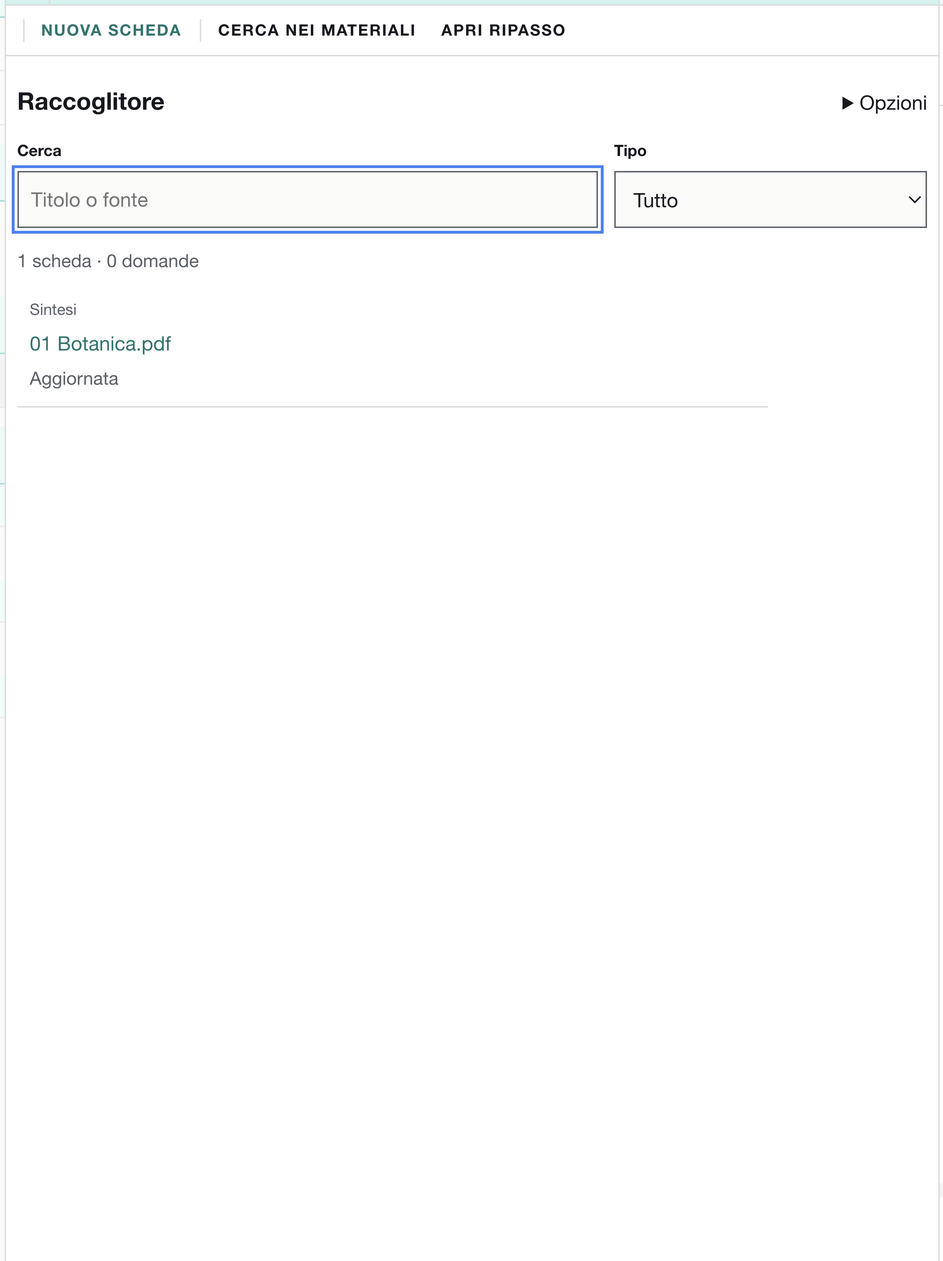
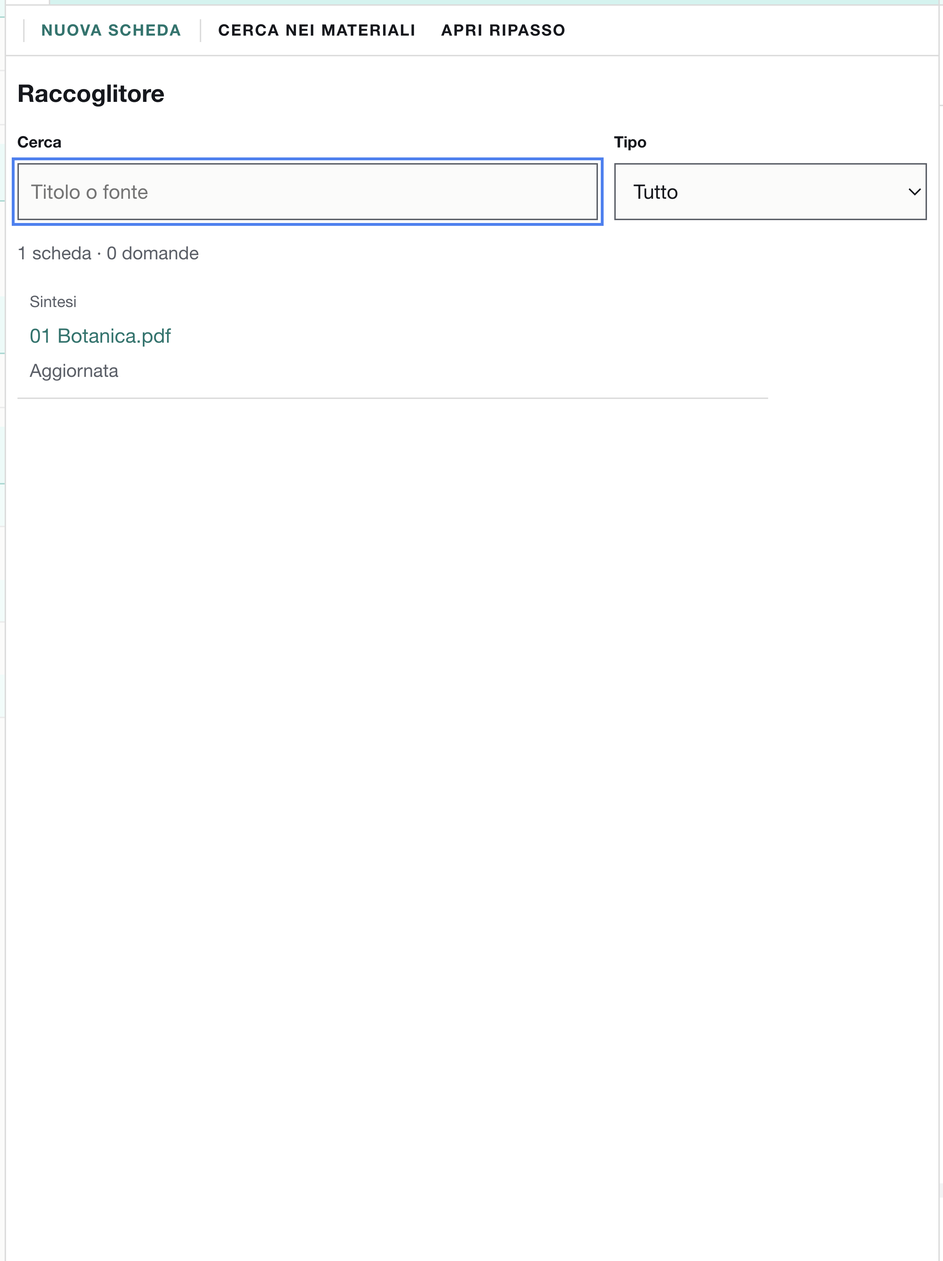
Semplifica la scelta delle domande e aggiorna il raccoglitore al ritorno

Changed region(s): [[0.0, 0.0621, 0.7432, 0.3107], [0.898, 0.0621, 0.96, 0.0932]]

diff --git a/App/assets/chat/schede-ripasso.js b/App/assets/chat/schede-ripasso.js
@@ -9,7 +9,7 @@
   const extra=el('div');extra.innerHTML=`
    <section id="zschede" aria-label="Schede dello zaino">
     <section id="zschedeLibrary" aria-labelledby="zschedeTitle">
-     <div class="zstudio-heading"><h2 id="zschedeTitle">Raccoglitore</h2><details class="zstudio-options"><summary>Opzioni</summary><p class="zchat-hint">Tutte le schede e le domande salvate nello zaino. Aprirle non usa l’AI. L’elenco si aggiorna automaticamente.</p><button id="zschedeRefresh" class="tbtn" type="button">Aggiorna elenco</button></details></div>
+     <div class="zstudio-heading"><h2 id="zschedeTitle">Raccoglitore</h2></div>
      <div class="zstudio-filters"><label for="zschedeFilter">Cerca<input id="zschedeFilter" class="ctl-input" placeholder="Titolo o fonte"></label><label for="zschedeKind">Tipo<select id="zschedeKind"><option value="all">Tutto</option><option value="scheda">Schede</option><option value="domanda">Domande</option></select></label></div>
      <p id="zschedeCollectionStatus" class="zchat-hint" role="status"></p><div id="zschedeCollection" class="zstudio-collection"></div>
     </section>
@@ -27,7 +27,7 @@
      <section id="zstudyHome"><h2 id="zstudyHomeTitle" tabindex="-1">Pronto per ripassare?</h2><p id="zstudyCount" class="zchat-hint" role="status"></p><button id="zstudyBegin" class="tbtn acc" type="button">Inizia ripasso</button><p id="zstudyHomeEmpty" class="zchat-hint">Crea una domanda con AI oppure aprine una dal raccoglitore.</p></section>
      <section id="zstudyChoose" hidden><div class="zstudio-heading"><h2 tabindex="-1">Scegli una domanda</h2><button class="tbtn" id="zstudyRefresh" type="button">Aggiorna</button></div>
       <label for="zstudyQueueFilter">Mostra<select id="zstudyQueueFilter"><option value="due">Da ripassare</option><option value="new">Nuove</option><option value="later">Più avanti</option><option value="all">Tutte le domande</option></select></label>
-      <div id="zstudyQueue" class="zstudio-actions"><label for="zstudySaved">Domanda</label><select id="zstudySaved" class="ctl-select"></select><button class="tbtn acc" id="zstudyResume" type="button">Apri domanda</button></div><p id="zstudyQueueEmpty" class="zchat-hint"></p>
+      <div id="zstudyQueue" class="zstudio-actions"><label for="zstudySaved">Domanda</label><select id="zstudySaved" class="ctl-select"></select><button class="tbtn acc" id="zstudyResume" type="button">Apri</button></div><p id="zstudyQueueEmpty" class="zchat-hint"></p>
      </section>
      <details id="zstudyNew" class="zstudio-section zstudio-view" hidden><summary>Nuova domanda con AI</summary>
       <label class="zstudio-field" for="zstudyTopic">Argomento (facoltativo)<input class="ctl-input" id="zstudyTopic" maxlength="3000" placeholder="I concetti principali delle fonti scelte"></label>
@@ -90,7 +90,7 @@
    cards=r.status==='fulfilled'?r.value.cards:[];savedQuestions=q.status==='fulfilled'?q.value.questions:[];collectionWarnings=[...(r.status==='fulfilled'?r.value.warnings:['Schede non leggibili: '+r.reason.message]),...(q.status==='fulfilled'?[]:['Domande non leggibili: '+q.reason.message])];drawCollection();}
   window.vault.rag.onAuto(s=>{if(s.zaino!==state.zaino||!['queued','waiting-model','ready','warning','error'].includes(s.phase))return;clearTimeout(collectionTimer);collectionTimer=setTimeout(()=>collection().catch(e=>studio.status(e.message,true,'zschedeCollectionStatus')),250);});
   $('zschedeFilter').oninput=drawCollection;$('zschedeKind').onchange=drawCollection;
-  $('zschedeRefresh').onclick=()=>studio.action(collection);
+  function mostraRaccolta(){vistaSchede('library','zschedeFilter');collection().catch(e=>studio.status(e.message,true,'zschedeCollectionStatus'));}
   async function sources(prefer=false){const z=state.zaino,scope=JSON.stringify(state.scope),result=await window.vault.chat.sources(z);if(z!==state.zaino||scope!==JSON.stringify(state.scope))return;if(!result?.ok)throw Error(result?.error);const old=$('zschedeSource').value;$('zschedeSource').replaceChildren();for(const s of result.sources.filter(s=>state.scope.mode==='all'||state.scope.sourceIds.includes(s.id)))$('zschedeSource').append(new Option(s.file,s.id));const available=result.sources.filter(s=>state.scope.mode==='all'||state.scope.sourceIds.includes(s.id)),choice=P.fontePreferita(available,prefer?[studio.documento()]:[],old);if(choice)$('zschedeSource').value=choice;if(old!==$('zschedeSource').value)invalidateEstimate();$('zschedeEstimate').disabled=!$('zschedeSource').options.length;$('zschedeSourceStatus').textContent=$('zschedeSource').options.length?'':'Nessuna fonte disponibile nella selezione. Cambia il filtro «Fonti».';}
   function drawCard(c,st){
    vistaSchede('card');const target=$('zschedeResult');target.replaceChildren();if(!c){target.append(el('p','Nessuna scheda disponibile.'));return;}
@@ -105,7 +105,7 @@
    if(st!=='removed'){const regenerate=button('Rigenera…',()=>studio.action(current=>prepare(current,c.sourceId,c.preset)),true);regenerate.classList.add('zstudio-card-regenerate');regenerate.title='Mostra la stima prima di confermare l’uso dell’AI.';target.append(regenerate);}
   }
   const nuova=button('Nuova scheda',async()=>{nuova.disabled=true;try{await sources(true);vistaSchede('new','zschedeSource');}catch(e){vistaSchede('new');studio.status(e.message,true,'zschedeStatus');$('zschedeStatus').scrollIntoView({block:'nearest'});}finally{nuova.disabled=false;}});nuova.id='zschedeNewButton';nuova.classList.add('acc');$('zragToolbar').insertBefore(nuova,$('zragToolbar').firstChild);
-  const back=button('Raccoglitore',()=>vistaSchede('library','zschedeFilter'));back.id='zschedeBack';const search=button('Cerca nei materiali',()=>vistaSchede('search','zragQuery'));search.id='zragSearchButton';$('zragToolbar').insertBefore(back,nuova);nuova.after(search);
+  const back=button('Raccoglitore',mostraRaccolta);back.id='zschedeBack';const search=button('Cerca nei materiali',()=>vistaSchede('search','zragQuery'));search.id='zragSearchButton';$('zragToolbar').insertBefore(back,nuova);nuova.after(search);
   function invalidateEstimate(){estimate=null;$('zschedeGenerate').hidden=true;$('zschedeEstimateText').textContent='';$('zschedeTokens').textContent='';$('zschedeCost').open=false;$('zschedeCost').hidden=true;$('zschedeEstimate').textContent='Prepara analisi';$('zschedeEstimate').classList.add('acc');}
   for(const id of ['zschedeSource','zschedePreset'])$(id).onchange=invalidateEstimate;
   async function prepare(current,sourceId,preset){
@@ -161,7 +161,7 @@
   $('zstudyQueueFilter').onchange=()=>{visitati.clear();drawQueue();};
   function pause(){pausedId=question?.id||pausedId;paused=true;visitati.clear();drawQuestion(null);drawQueue();pulisciAvvisoRipasso();vistaRipasso('home','zstudyBegin');}
   $('zstudyPause').onclick=()=>{if(question&&!question.saved)return action(async current=>{await call('keep',state.zaino,question.id);if(current()){pause();await refresh();await collection();}});pause();};
-  $('zstudyCollection').onclick=()=>{window.bancoMostra('studio');vistaSchede('library');collection().catch(e=>studio.status(e.message,true,'zschedeCollectionStatus'));$('zschedeFilter').focus();};
+  $('zstudyCollection').onclick=()=>{window.bancoMostra('studio');mostraRaccolta();};
   $('zstudyUseSources').onclick=()=>{picker.set(state.scope);status('Fonti trasferite da Cerca e studia.');};
   function openReview(){picker.set(state.scope);window.bancoMostra('flashcard');refresh().catch(e=>status(e.message,true));tornaRipasso();}
   function start(scope){paused=false;vistaRipasso('new');action(async current=>{if(!await studio.ensureAI('zstudyStatus')||!current())return;if(!window.noteFlush())throw Error('Salva prima gli appunti aperti.');const r=await call('start',state.zaino,{scope:scope?.mode?scope:reviewState.scope,topic:$('zstudyTopic').value});if(current()){review=false;drawQuestion(r.question);await refresh();$('zstudyNew').open=false;$('zstudyQuestion h3')?.focus();status('');}});}

diff --git a/test/cdp/prova-studio-zaino.js b/test/cdp/prova-studio-zaino.js
@@ -17,20 +17,20 @@ const set=(id,value)=>c.val(`(()=>{const e=document.getElementById(${JSON.string
  await click('#zschedeEstimate');await wait(`!document.getElementById('zschedeGenerate').hidden`);assert((await c.val(`document.getElementById('zschedeTokens').textContent`)).includes('token'));
  await click('#zschedeGenerate');await wait(`document.querySelectorAll('#zschedeResult article').length===1`);
  assert.equal(await c.val(`document.querySelector('#zschedeResult strong').textContent`),'Energia cellulare');
- await wait(`document.querySelectorAll('#zschedeCollection article').length===1 && !document.getElementById('zschedeRefresh').disabled`);
+ await wait(`document.querySelectorAll('#zschedeCollection article').length===1 && !document.getElementById('zschedeNewButton').disabled`);
  await click('#zschedeBack');await set('zschedeFilter','inesistente');assert.equal(await c.val(`document.querySelectorAll('#zschedeCollection article').length`),0);await set('zschedeFilter','Sintesi');
  await c.val(`document.getElementById('zschedeResult').replaceChildren()`);await click('#zschedeCollection button');await wait(`!!document.querySelector('#zschedeResult article')`);
  assert.deepEqual(await c.val(`[...document.querySelectorAll('#zschedeResult .zstudio-card-text strong')].map(e=>e.textContent)`),['Concetti:','Prerequisiti:','Esempi:']);
  // Il raccoglitore resta generale anche quando la ricerca ammette una sola fonte.
  const firstCard=(await c.val(`window.vault.studio.cards('biologia')`)).cards[0],other=(await c.val(`window.vault.chat.sources('biologia')`)).sources.find(s=>s.kind==='appunto'&&s.id!==firstCard.sourceId);assert(other);
  await click('#zschedeBack');await click('#zschedeNewButton');await wait(`document.getElementById('zschedeNew').open`);await set('zschedeSource',other.id);await set('zschedePreset','concetti');await click('#zschedeEstimate');await wait(`!document.getElementById('zschedeGenerate').hidden && !document.getElementById('zschedeGenerate').disabled`);await click('#zschedeGenerate');
- await wait(`document.getElementById('zschedeCollectionStatus').textContent.includes('2 schede') && !document.getElementById('zschedeRefresh').disabled`);
+ await wait(`document.getElementById('zschedeCollectionStatus').textContent.includes('2 schede') && !document.getElementById('zschedeNewButton').disabled`);
  await set('zschedeFilter','');assert.equal(await c.val(`document.querySelectorAll('#zschedeCollection article').length`),2);
  await click('#zragScopeButton');await click('#zragScope input');await click('#zragScope [data-source-id="'+other.id+'"]');await click('#zragScopeButton');
  await wait(`document.getElementById('zschedeSource').options.length===1`);assert.equal(await c.val(`document.querySelectorAll('#zschedeCollection article').length`),2);
  await set('zschedeFilter',firstCard.file);assert.equal(await c.val(`document.querySelectorAll('#zschedeCollection article').length`),1);
  const requests=path.join(path.dirname(vault),'dati/chat-requests.jsonl'),sent=fs.readFileSync(requests,'utf8');
- await click('#zschedeCollection .zstudio-card-open');await wait(`!!document.querySelector('#zschedeResult article') && !document.getElementById('zschedeRefresh').disabled`);assert.equal(fs.readFileSync(requests,'utf8'),sent,'Aprire una scheda salvata non chiama il provider');
+ await click('#zschedeCollection .zstudio-card-open');await wait(`!!document.querySelector('#zschedeResult article') && !document.getElementById('zschedeNewButton').disabled`);assert.equal(fs.readFileSync(requests,'utf8'),sent,'Aprire una scheda salvata non chiama il provider');
  await click('#zragScopeButton');await click('#zragScope input');await click('#zragScopeButton');await wait(`document.getElementById('zschedeSource').options.length>1`);
  // Una modifica esterna aggiorna il raccoglitore aperto; la stima non rigenera.
  const cached=(await c.val(`window.vault.studio.cards('biologia')`)).cards.find(c=>c.preset==='sintesi');
@@ -38,10 +38,10 @@ const set=(id,value)=>c.val(`(()=>{const e=document.getElementById(${JSON.string
  try{
   fs.appendFileSync(sourceFile,'\nNuovo paragrafo di prova: energia conservata nei legami chimici.\n');
   await wait(`document.getElementById('zschedeCollection').textContent.includes('Fonte modificata')`);
-  await click('#zschedeBack');await click('#zschedeCollection .zstudio-card-open');await wait(`!document.getElementById('zschedeRefresh').disabled`);await click('#zschedeResult .zstudio-card-regenerate');await wait(`!document.getElementById('zschedeGenerate').hidden && !document.getElementById('zschedeGenerate').disabled`);
+  await click('#zschedeBack');await click('#zschedeCollection .zstudio-card-open');await wait(`!document.getElementById('zschedeNewButton').disabled`);await click('#zschedeResult .zstudio-card-regenerate');await wait(`!document.getElementById('zschedeGenerate').hidden && !document.getElementById('zschedeGenerate').disabled`);
   assert.equal(fs.readFileSync(cacheFile,'utf8'),before,'Mostrare la stima non deve chiamare il provider o modificare la scheda');
   assert((await c.val(`document.getElementById('zschedeEstimateText').textContent`)).includes(cached.file.split('/').pop()));
-  await click('#zschedeGenerate');await wait(`!document.getElementById('zschedeRefresh').disabled && document.getElementById('zschedeCollection').textContent.includes('Aggiornata') && !document.getElementById('zschedeCollection').textContent.includes('Fonte modificata')`);
+  await click('#zschedeGenerate');await wait(`!document.getElementById('zschedeNewButton').disabled && document.getElementById('zschedeCollection').textContent.includes('Aggiornata') && !document.getElementById('zschedeCollection').textContent.includes('Fonte modificata')`);
   assert.notEqual(fs.readFileSync(cacheFile,'utf8'),before,'La conferma rigenera la scheda');
  }finally{fs.writeFileSync(sourceFile,original);}
  await click('#zschedeResult>button');await wait(`document.getElementById('zragStatus').textContent.includes('conservata')`);

diff --git a/test/cdp/prova-studio-essenziale.js b/test/cdp/prova-studio-essenziale.js
@@ -4,6 +4,8 @@ async function wait(expr){for(let n=0;n<160;n++){if(await c.val(expr))return;awa
 const click=async s=>{await c.val(`document.querySelector(${JSON.stringify(s)}).scrollIntoView({block:'nearest'})`);await c.pausa(80);await c.clicca(s);};
 (async()=>{
  await c.collega();await wait(`!!window.zainoStudio && document.getElementById('zschedePreset')?.options.length===5`);
+ assert.equal(await c.val(`document.getElementById('zstudyResume').textContent`),'Apri');
+ assert.equal(await c.val(`!!document.querySelector('#zschedeLibrary details, #zschedeRefresh')`),false,'Il raccoglitore automatico non richiede opzioni di aggiornamento manuale');
  const vault=await c.val('window.vault.path');assert(vault.includes('studia-zaino-prova-'));
  const initial=await c.val(`({banco:JSON.parse(JSON.stringify(bancoStato())),theme:document.documentElement.dataset.theme,storage:{...localStorage}})`);
  const folder=path.join(vault,'Zaini/biologia/RIPASSO'),active=path.join(folder,'active.json'),before=fs.existsSync(active)?fs.readFileSync(active):null;
@@ -22,7 +24,10 @@ const click=async s=>{await c.val(`document.querySelector(${JSON.stringify(s)}).
  await click('#zstudyNewButton');assert(await c.val(`document.getElementById('zstudyQuestion').hidden`));await click('#zstudyBack');assert.equal(await c.val(`document.getElementById('zstudyAttempt').value`),'La mia bozza');
  await click('#zstudyPause');await click('#zstudyBegin');await wait(`!!document.getElementById('zstudyAttempt')`);assert.equal(await c.val(`document.getElementById('zstudyAttempt').value`),'La mia bozza');assert.equal(await c.val(`document.querySelector('#zstudyQuestion h3').textContent`),q.question);
  await c.val(`document.getElementById('zschedeFilter').value='sistema solare';document.getElementById('zschedeFilter').dispatchEvent(new Event('input'))`);
- await click('#zschedeNewButton');assert(await c.val(`document.getElementById('zschedeLibrary').hidden`));await click('#zschedeBack');assert.equal(await c.val(`document.getElementById('zschedeFilter').value`),'sistema solare');assert.equal(await c.val(`document.activeElement.id`),'zschedeFilter');
+ await click('#zschedeNewButton');assert(await c.val(`document.getElementById('zschedeLibrary').hidden`));
+ // Il ritorno rilegge anche le domande cambiate sul disco, conservando il filtro.
+ q.question+=' — aggiornata sul disco';fs.writeFileSync(file,JSON.stringify(q));
+ await click('#zschedeBack');await wait(`document.getElementById('zschedeCollection').textContent.includes('aggiornata sul disco')`);assert.equal(await c.val(`document.getElementById('zschedeFilter').value`),'sistema solare');assert.equal(await c.val(`document.activeElement.id`),'zschedeFilter');
  await click('#zragSearchButton');assert(await c.val(`document.getElementById('zschedeLibrary').hidden`));assert(await c.val(`document.getElementById('zragSearch').open`));await c.val(`document.getElementById('zragStatus').textContent='Esito della ricerca precedente'`);await click('#zschedeBack');assert.equal(await c.val(`document.getElementById('zragStatus').textContent`),'');
  for(const theme of ['chiaro','scuro']){await c.val(`document.documentElement.dataset.theme=${JSON.stringify(theme)}`);await c.pausa(300);assert(await c.val(`document.documentElement.scrollWidth<=innerWidth && ['zstudio','zstudyBody'].every(id=>{const e=document.getElementById(id);return e.scrollWidth<=e.clientWidth+1})`));const colors=await c.val(`(()=>{const e=document.querySelector('#zstudyQuestion form button'),ctx=document.createElement('canvas').getContext('2d'),fondi=[];for(let p=e;p;p=p.parentElement)fondi.unshift(getComputedStyle(p).backgroundColor);ctx.fillStyle=getComputedStyle(document.documentElement).getPropertyValue('--panel');ctx.fillRect(0,0,1,1);for(const bg of fondi){ctx.fillStyle=bg;ctx.fillRect(0,0,1,1);}const bg=[...ctx.getImageData(0,0,1,1).data].slice(0,3);ctx.fillStyle=getComputedStyle(e).color;ctx.fillRect(0,0,1,1);return [[...ctx.getImageData(0,0,1,1).data].slice(0,3),bg];})()`);const light=rgb=>rgb.map(n=>n/255).map(n=>n<=.04045?n/12.92:((n+.055)/1.055)**2.4).reduce((a,n,i)=>a+n*[.2126,.7152,.0722][i],0),lum=colors.map(light);assert((Math.max(...lum)+.05)/(Math.min(...lum)+.05)>=4.5,'Contrasto azione principale '+theme);await wait(`!document.querySelector('#toast.show')`);const shot=await c.invia('Page.captureScreenshot',{format:'png'});fs.writeFileSync('/tmp/zaino-essenziale-'+theme+'.png',Buffer.from(shot.result.data,'base64'));}
  await c.val(`window.vault.chat.clearKey({provider:'openai'})`);await c.val(`document.querySelector('#zstudyQuestion form').requestSubmit()`);await wait(`!!document.querySelector('#zstudyStatusConfig button') && document.getElementById('zstudyCancel').hidden`);await click('#zstudyBrowse');assert(await c.val(`document.getElementById('zstudyStatusConfig').hidden`));await click('#zstudyBack');await c.val(`document.querySelector('#zstudyQuestion form').requestSubmit()`);await wait(`!document.getElementById('zstudyStatusConfig').hidden && document.getElementById('zstudyCancel').hidden`);await click('#zstudyStatusConfig button');await c.val(`window.vault.chat.setKey({provider:'openai',value:'chiave-finta-essenziale'})`);await click('#settingsClose');await wait(`document.getElementById('zstudyStatusConfig').hidden`);assert.equal(await c.val(`document.activeElement.id`),'zstudyAttempt');assert.equal(await c.val(`document.getElementById('zstudyAttempt').value`),'La mia bozza');

diff --git a/test/cdp/prova-schede-citazioni.js b/test/cdp/prova-schede-citazioni.js
@@ -5,7 +5,7 @@ async function wait(expr){for(let n=0;n<150;n++){if(await c.val(expr))return;awa
 const click=sel=>c.val(`document.querySelector(${q(sel)}).click()`);
 async function hover(sel){await c.val(`document.querySelector(${q(sel)}).scrollIntoView({block:'nearest'})`);const p=await c.val(`(()=>{const r=document.querySelector(${q(sel)}).getBoundingClientRect();return {x:r.x+r.width/2,y:r.y+r.height/2};})()`);await c.invia('Input.dispatchMouseEvent',{type:'mouseMoved',...p});await c.pausa(300);}
 (async()=>{
- await c.collega();await wait(`!!window.zainoStudio && !!document.getElementById('zschedeRefresh')`);
+ await c.collega();await wait(`!!window.zainoStudio && !!document.getElementById('zschedeKind')`);
  const vault=await c.val('window.vault.path');assert(vault.includes('studia-zaino-prova-'));
  const initial=await c.val(`({banco:bancoStato(),tema:document.documentElement.dataset.theme,storage:{...localStorage}})`);
  await c.val(`cambiaZaino('biologia',true);bancoForma('uno');bancoAssegna('A','studio')`);
@@ -16,8 +16,8 @@ async function hover(sel){await c.val(`document.querySelector(${q(sel)}).scrollI
  fs.mkdirSync(path.dirname(cache),{recursive:true});fs.writeFileSync(cache,JSON.stringify(card));
  const noteDir=path.join(vault,'Zaini/biologia/APPUNTI'),notePrima=new Set(fs.readdirSync(noteDir));
  try{
-  await click('#zschedeBack');await c.val(`document.getElementById('zschedeKind').value='scheda';document.getElementById('zschedeFilter').value='Botanica.pdf Domande per capire';`);await click('#zschedeRefresh');await wait(`document.querySelectorAll('#zschedeCollection article').length===1 && !document.getElementById('zschedeRefresh').disabled`);
-  await click('#zschedeCollection button');await wait(`!!document.querySelector('#zschedeResult article') && !document.getElementById('zschedeRefresh').disabled`);
+  await click('#zschedeBack');await c.val(`document.getElementById('zschedeKind').value='scheda';document.getElementById('zschedeFilter').value='Botanica.pdf Domande per capire';`);await click('#zschedeBack');await wait(`document.querySelectorAll('#zschedeCollection article').length===1 && !document.getElementById('zschedeNewButton').disabled`);
+  await click('#zschedeCollection button');await wait(`!!document.querySelector('#zschedeResult article') && !document.getElementById('zschedeNewButton').disabled`);
   assert.equal(await c.val(`document.querySelector('#zschedeResult article').firstElementChild.tagName`),'H4');
   assert.deepEqual(await c.val(`[...document.querySelectorAll('#zschedeResult article .zchat-citation')].map(b=>b.textContent)`),['01 Botanica.pdf · p. 1','01 Botanica.pdf · p. 2']);
   assert.equal(await c.val(`document.querySelector('#zschedeResult article>button:last-child').textContent`),'Rispondi');
@@ -44,7 +44,7 @@ async function hover(sel){await c.val(`document.querySelector(${q(sel)}).scrollI
   await c.val(`noteFlush();cambiaZaino('storia',true)`);
   for(const file of fs.readdirSync(noteDir))if(file.startsWith('Scheda AI ')&&!notePrima.has(file))fs.rmSync(path.join(noteDir,file));
   require('../../lib/appunti').reindex(vault,'biologia');await c.val(`cambiaZaino('biologia',true)`);
-  await c.val(`noteFlush();document.documentElement.dataset.theme=${q(initial.tema)};localStorage.clear();Object.entries(${q(initial.storage)}).forEach(([k,v])=>localStorage.setItem(k,v));BANCO.stato=${q(initial.banco)};bancoSalva();bancoDisegna();document.getElementById('zschedeFilter').value='';document.getElementById('zschedeKind').value='all';document.getElementById('zschedeRefresh').click()`);
+  await c.val(`noteFlush();document.documentElement.dataset.theme=${q(initial.tema)};localStorage.clear();Object.entries(${q(initial.storage)}).forEach(([k,v])=>localStorage.setItem(k,v));BANCO.stato=${q(initial.banco)};bancoSalva();bancoDisegna();document.getElementById('zschedeFilter').value='';document.getElementById('zschedeKind').value='all';document.getElementById('zschedeBack').click()`);
  }
  console.log('schede-citazioni UI: H4/H6, rimandi unici per pagina, copia leggibile, azioni e sidebar nei due temi OK');process.exit(0);
 })().catch(e=>{console.error(e);process.exit(1);});

diff --git a/App/guida-zaino/index.html b/App/guida-zaino/index.html
@@ -391,7 +391,7 @@
           <li><strong>«Aggiornata»</strong>: la fonte corrisponde alla versione analizzata.</li>
           <li><strong>«Fonte modificata · da aggiornare»</strong>: il documento è cambiato dopo l’analisi.</li>
           <li><strong>«Fonte non disponibile»</strong>: la scheda resta leggibile, ma il file originale manca.</li>
-          <li><strong>«Opzioni» → «Aggiorna elenco»</strong>: rilegge lo stato delle schede. Non rigenera le analisi.</li>
+          <li>L’elenco si aggiorna dopo i salvataggi, quando cambiano le fonti e ogni volta che torni al <strong>«Raccoglitore»</strong>. Non serve aggiornarlo a mano.</li>
           <li><strong>«Rigenera…»</strong>, nella scheda aperta: prepara una nuova stima. Premi poi «Genera e salva scheda» per confermare l’analisi.</li>
         </ul>
         <figure class="fig-blocco"><img src="img/201-scheda-copia.png" alt="La scheda aperta con il rimando alla fonte e il pulsante Crea appunti da scheda" loading="lazy"><figcaption><b>Dalla scheda agli appunti.</b> Il pulsante in fondo conserva una copia personale. Contenuto AI simulato.</figcaption></figure>
@@ -436,7 +436,7 @@
           <li>Premi <strong>«Conserva nel ripasso»</strong> per tenere la domanda nello zaino.</li>
           <li>Dopo il riscontro, scegli l’esito che descrive il tuo tentativo. Ogni pulsante indica anche l’intervallo proposto.</li>
           <li>Controlla la data accanto a <strong>«prossimo»</strong>. Puoi correggere l’esito se hai scelto quello sbagliato.</li>
-          <li>Per riprovare subito premi <strong>«Riprova»</strong>. Per scegliere un’altra domanda apri <strong>«Domande»</strong> e premi <strong>«Apri domanda»</strong>.</li>
+          <li>Per riprovare subito premi <strong>«Riprova»</strong>. Per scegliere un’altra domanda apri <strong>«Domande»</strong> e premi <strong>«Apri»</strong>.</li>
           <li>Scrivi un nuovo tentativo. Apri <strong>«Tentativi precedenti»</strong> per confrontarlo con quelli già salvati.</li>
         </ol>
         <figure class="fig-blocco"><img src="img/198-ripasso-riscontro.png" alt="Il riscontro del tentativo con criteri, esiti di ripasso e il comando Conserva nel ripasso" loading="lazy"><figcaption><b>Decidi quando rivedere la domanda.</b> Il riscontro nell’immagine è simulato. Controlla sempre sulla fonte i punti che non ti convincono.</figcaption></figure>

diff --git a/test/cdp/prova-percorso-studio.js b/test/cdp/prova-percorso-studio.js
@@ -20,7 +20,7 @@ const set=(id,value)=>c.val(`(()=>{const e=document.getElementById(${JSON.string
  await screenshot('configurazione');const before=sent();await click('#zschedeStatusConfig button');assert.equal(await c.val(`document.documentElement.dataset.settings`),'1');
  await c.val(`window.vault.chat.setKey({provider:'openai',value:'chiave-finta-ux'})`);await click('#settingsClose');await wait(`document.getElementById('zschedeStatusConfig').hidden`);
  assert.equal(await c.val(`document.getElementById('zschedeSource').value`),source);assert.equal(await c.val(`document.getElementById('zschedePreset').value`),'domande');assert.equal(sent(),before);assert.equal(await c.val(`document.activeElement.id`),'zschedeEstimate');
- await click('#zschedeEstimate');await wait(`!document.getElementById('zschedeGenerate').hidden && !document.getElementById('zschedeGenerate').disabled`);await screenshot('stima');await click('#zschedeGenerate');await wait(`!!document.querySelector('#zschedeResult article button') && !document.getElementById('zschedeRefresh').disabled`);
+ await click('#zschedeEstimate');await wait(`!document.getElementById('zschedeGenerate').hidden && !document.getElementById('zschedeGenerate').disabled`);await screenshot('stima');await click('#zschedeGenerate');await wait(`!!document.querySelector('#zschedeResult article button') && !document.getElementById('zschedeNewButton').disabled`);
  const exactTitle=await c.val(`document.querySelector('#zschedeResult h4').textContent`),afterGeneration=sent();
  await click('#zschedeResult article>button:last-child');
  await wait(`!!document.querySelector('#zstudyQuestion h3') && !document.getElementById('zstudyRefresh').disabled`);

diff --git a/App/guida-zaino/_lab/novita.js b/App/guida-zaino/_lab/novita.js
@@ -25,8 +25,8 @@ async function shot(name,sel){await L.muovi(10,940);await L.pausa(600);await L.s
  await set('zschedeSource',source.id);await set('zschedePreset','sintesi');await click('#zschedeEstimate');
  await wait(`!document.getElementById('zschedeGenerate').hidden && !document.getElementById('zschedeGenerate').disabled`);
  await shot('195-scheda-stima','#studioPane');
- await click('#zschedeGenerate');await wait(`!!document.querySelector('#zschedeResult article') && !document.getElementById('zschedeRefresh').disabled`);
- await click('#zschedeBack');await shot('196-scheda-raccoglitore','#studioPane');await click('#zschedeCollection .zstudio-card-open');await wait(`!!document.querySelector('#zschedeResult article') && !document.getElementById('zschedeRefresh').disabled`);
+ await click('#zschedeGenerate');await wait(`!!document.querySelector('#zschedeResult article') && !document.getElementById('zschedeNewButton').disabled`);
+ await click('#zschedeBack');await shot('196-scheda-raccoglitore','#studioPane');await click('#zschedeCollection .zstudio-card-open');await wait(`!!document.querySelector('#zschedeResult article') && !document.getElementById('zschedeNewButton').disabled`);
  await L.val(`document.getElementById('zschedeResult').scrollIntoView({block:'end'})`);await shot('201-scheda-copia','#studioPane');
  await click('#zragOpenReview');await wait(`bancoVisibile('flashcard')`);await L.val(`bancoZoom(bancoBloccoDi('flashcard'))`);await L.pausa(3800);
  await click('#zstudyNewButton');await set('zstudyTopic','luce e fotosintesi');await click('#zstudyStart');await wait(`!!document.getElementById('zstudyAttempt') && document.getElementById('zstudyCancel').hidden`);

diff --git a/App/assets/chat/ui.css b/App/assets/chat/ui.css
@@ -250,8 +250,6 @@
 /* Studio: una vista per attività e un solo scorrimento per split. */
 .zstudio-heading { display:flex; align-items:baseline; justify-content:space-between; gap:.7rem; }
 .zstudio-heading h2 { margin:.35rem 0; }
-.zstudio-options { flex:0 1 45%; text-align:right; }
-.zstudio-options p { text-align:left; }
 .zstudio-filters { display:flex; flex-wrap:wrap; gap:.7rem; }
 .zstudio-filters label:first-child { flex:2 1 12rem; }
 .zstudio-filters label:last-child { flex:1 1 7rem; }

diff --git a/README.md b/README.md
@@ -37,7 +37,7 @@ Il contesto inviato all'AI è una selezione di passaggi pertinenti, con nomi dei
 
 L’embedder locale è **EmbeddingGemma 2 · ONNX** ([scheda su Hugging Face](https://huggingface.co/onnx-community/embeddinggemma-2-ONNX)): confronta il significato di documenti, appunti e domande sul computer. In **Impostazioni → AI → AI locale** trovi le descrizioni e i download **text** (346,4 MB), **vision** e **video** (541,8 MB con il testo incluso), disponibili anche senza uno zaino aperto. Visione e Video condividono i componenti: scaricarne uno prepara entrambi. I file già presenti e i download parziali vengono riutilizzati; l’app mostra quanti MB mancano. La ricerca attuale usa il testo; i download visivi preparano i componenti per immagini e fotogrammi. In **Cerca e studia → Cerca nei materiali** un solo pulsante cambia fra **Attiva indice**, **Crea indice**, **Aggiorna indice** e **Ricostruisci indice**, secondo lo stato del modello e dei materiali. L’indice è un archivio tecnico persistente in `Zaini/<zaino>/_lavorazione/rag`: serve al sistema per mostrare risultati e rimandi alle fonti. Una cartella sincronizzata può sincronizzare anche questi file. La spiegazione **Come funziona l’indice locale** si trova in **Impostazioni → AI → AI locale**.
 
-**Cerca e studia** apre il **Raccoglitore**: tutte le schede e le domande salvate nello zaino, con ricerca e filtro per tipo. Il nome del contenuto apre la scheda oppure la domanda in Ripasso, senza nuova generazione AI. **Nuova scheda**, lettura della scheda e **Cerca nei materiali** occupano viste separate; **Raccoglitore** torna all’elenco mantenendo i filtri. In **Opzioni** trovi spiegazione e aggiornamento manuale. **Rigenera…** si trova nella scheda aperta. Le domande hanno la dimensione del titolo H4. I riferimenti a ogni PDF sono separati e mostrano nome e pagina una sola volta per domanda, anche se la pagina contiene più passaggi. **Crea appunti da domanda** conserva una copia con titolo della scheda H6, domande H4 e citazioni su righe distinte; **Crea appunti da scheda** fa lo stesso per gli altri tipi, conservando il loro titolo H3. Le copie precedenti restano intatte: la prima copia nel nuovo formato è un nuovo appunto, le successive riaprono quella copia.
+**Cerca e studia** apre il **Raccoglitore**: tutte le schede e le domande salvate nello zaino, con ricerca e filtro per tipo. Il nome del contenuto apre la scheda oppure la domanda in Ripasso, senza nuova generazione AI. **Nuova scheda**, lettura della scheda e **Cerca nei materiali** occupano viste separate; **Raccoglitore** torna all’elenco mantenendo i filtri. L’elenco si aggiorna dopo i salvataggi, quando cambiano le fonti e tornando al **Raccoglitore**, mantenendo i filtri. **Rigenera…** si trova nella scheda aperta. Le domande hanno la dimensione del titolo H4. I riferimenti a ogni PDF sono separati e mostrano nome e pagina una sola volta per domanda, anche se la pagina contiene più passaggi. **Crea appunti da domanda** conserva una copia con titolo della scheda H6, domande H4 e citazioni su righe distinte; **Crea appunti da scheda** fa lo stesso per gli altri tipi, conservando il loro titolo H3. Le copie precedenti restano intatte: la prima copia nel nuovo formato è un nuovo appunto, le successive riaprono quella copia.
 
 **Nuova scheda** propone l’ultimo PDF o appunto su cui hai lavorato, se compreso nelle fonti ammesse. Controlla fonte e tipo, poi premi **Prepara analisi**: il riepilogo mostra materiale, copertura e provider; i token sono in **Dettagli del consumo**. **Genera e salva scheda** conferma l’invio. Se manca la configurazione, **Configura AI cloud** apre direttamente le impostazioni; tornando, ritrovi fonte e tipo scelti. La ricerca e la gestione dell’indice sono secondarie, dentro **Cerca nei materiali**.
 
